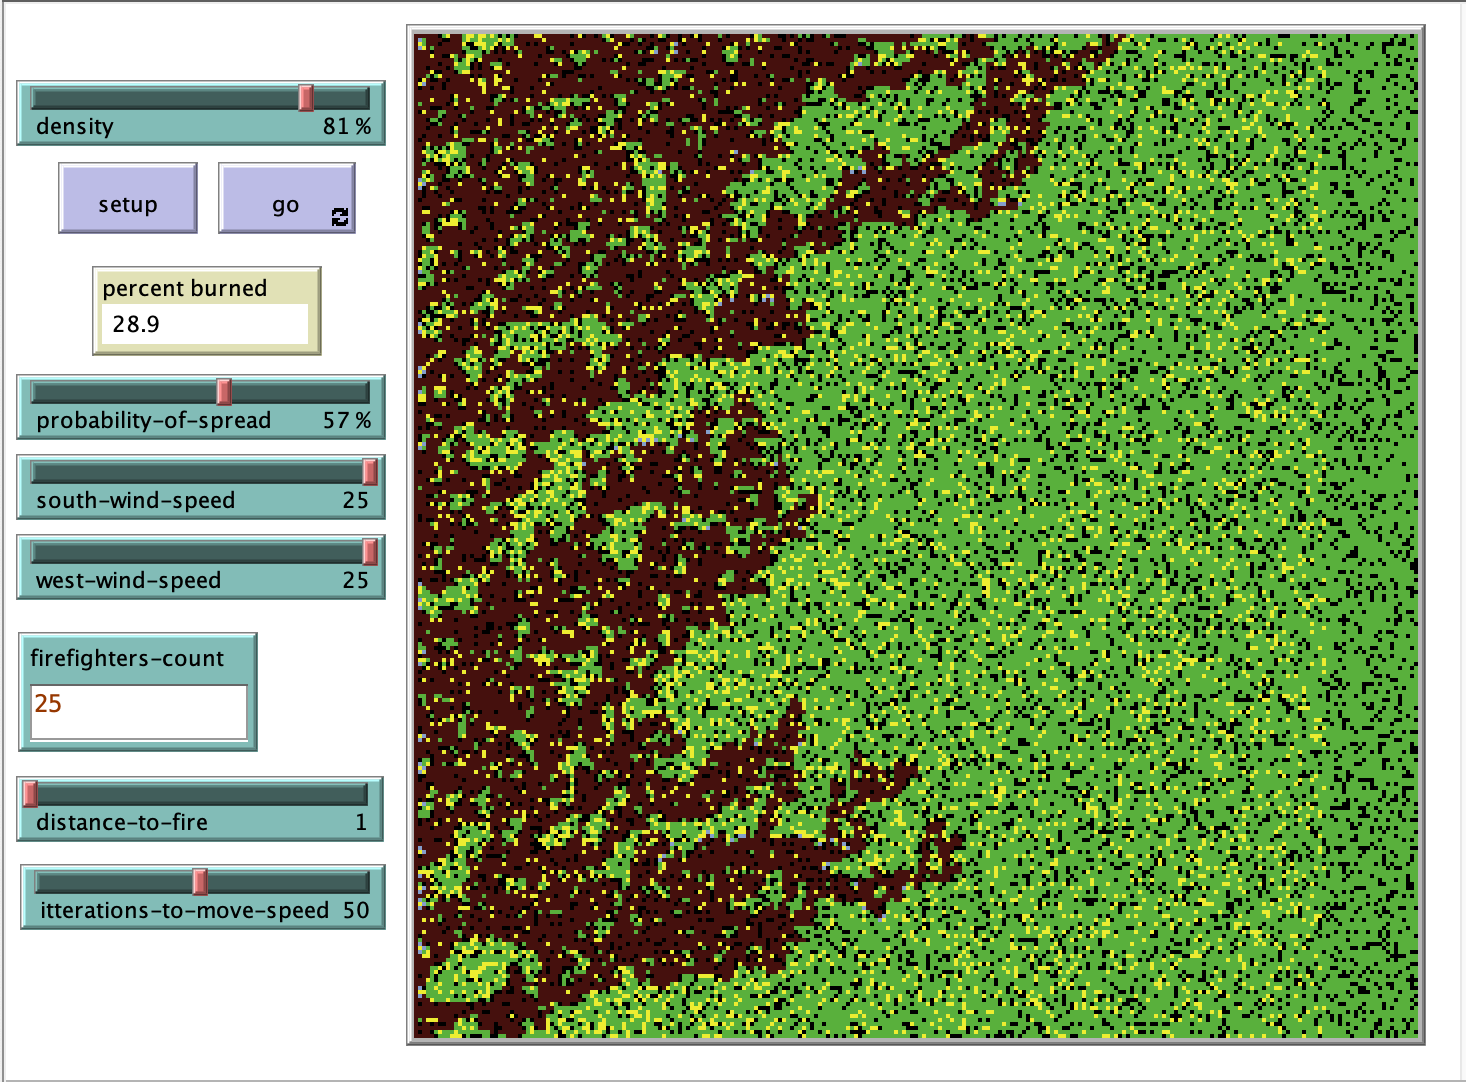
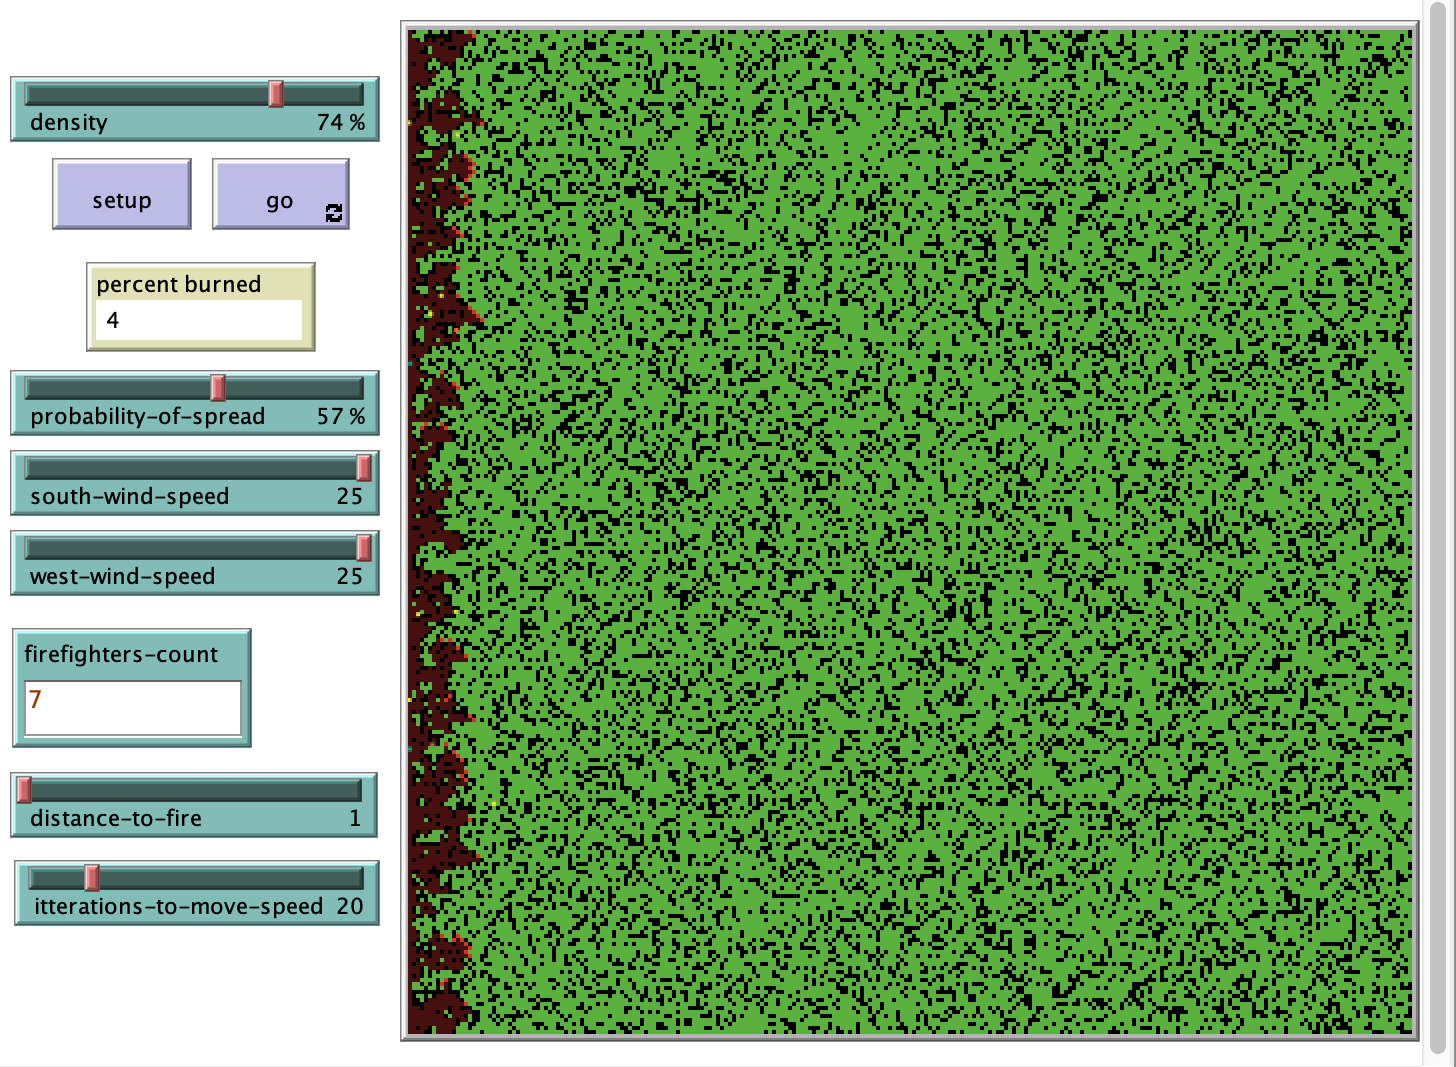
Fixed logic to fight with fire.

diff --git a/V5/Lab-2/FireExtension.md b/V5/Lab-2/FireExtension.md
@@ -21,11 +21,17 @@ distanceToFire - початкова відстань до лінії вогню
 <pre>
 globals [
   initial-trees   ;; how many trees (green patches) we started with
-  fireFighters
-  fireFightersSteps
   fireFighterColor
   distanceToFire
+  itterationsCount
 ]
+
+turtles-own [
+  isFire?
+  speed
+]
+
+breed [firefighters firefighter]
 </pre>
 
 **Додано процедуру додавання пожежників перед початком симуляції:**.
@@ -33,14 +39,17 @@ globals [
 <pre>
 to makeAgents
 
-  set fireFighters firefighters-count
+  set distanceToFire (min-pxcor + distance-to-fire)
 
-  ask patches with [pxcor = min-pxcor + distanceToFire and pcolor = black] [
-    if fireFighters > 0 [
-      set pcolor fireFighterColor
-    ]
+  create-turtles firefighters-count [
+    setxy distanceToFire random-ycor
+    set color fireFighterColor
+    set isFire? false
+    set speed 0.2
+  ]
 
-    set fireFighters fireFighters - 1
+  create-firefighters firefighters-count [
+    setxy distanceToFire random-ycor
   ]
 
 end
@@ -51,17 +60,14 @@ end
 <pre>
 to moveAgents
 
-  set fireFighters firefighters-count
-  set fireFightersSteps fireFightersSteps + 1
-
-
-  ask patches with [pxcor = min-pxcor + distanceToFire + fireFightersSteps and (pcolor = black or pcolor = green)] [
-    if fireFighters > 0 [
-      set pcolor fireFighterColor
+  ask turtles [
+    if any? other turtles in-radius 1 with [isFire?] [
+      set isFire? true
+      set color cyan
     ]
-
-    set fireFighters fireFighters - 1
+    forward 1
   ]
+
 end
 </pre>
 
@@ -70,11 +76,14 @@ end
 <pre>
 to fightWithFire
 
-  ask patches with [ pxcor = min-pxcor + distanceToFire + fireFightersSteps and pcolor = fireFighterColor ] [
-       ask neighbors4 with [ pcolor = red ] [
-         set pcolor blue + 2
-       ]
+  let nearFire other turtles in-radius 1 with [isFire?]
+
+  ask nearFire [
+    if random-float 1 < 0.7 [
+      set isFire? false
+      set color white
     ]
+  ]
 
 end
 </pre>
